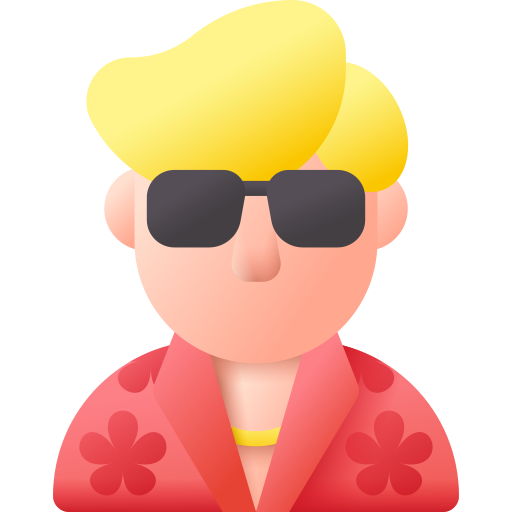
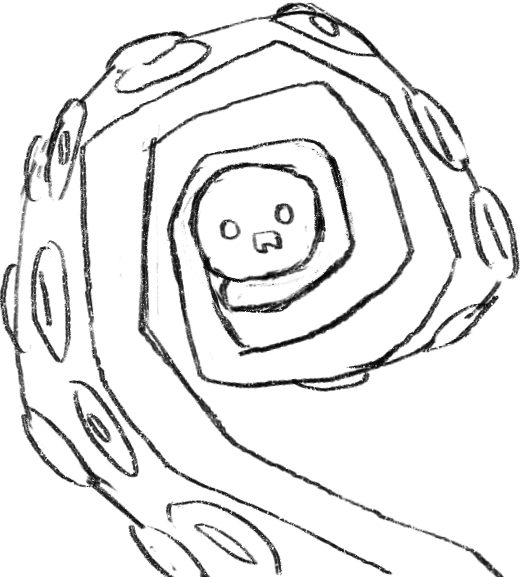
minor

diff --git a/Assets/Scripts/Services/TransportService.cs b/Assets/Scripts/Services/TransportService.cs
@@ -96,6 +96,9 @@ public class TransportService
             case ZonePhase.Delivering:
                 TickDelivering(zone, type, workers, dt);
                 break;
+            case ZonePhase.AwaitingHandPickup:
+                TickAwaitingHandPickup(zone, type, workers, dt);
+                break;
         }
     }
 
@@ -107,6 +110,7 @@ public class TransportService
         {
             case ZonePhase.Returning:
             case ZonePhase.Delivering:
+            case ZonePhase.AwaitingHandPickup:
                 if (zone.HasSharedItem)
                     zone.SharedItemPosition = layout.PlaceItemOnGround(
                         zone.SharedItemPosition,
@@ -296,6 +300,42 @@ public class TransportService
             OrderId = zone.CurrentOrderId
         };
         FoodReadyForHandPickup?.Invoke(request);
+        BeginAwaitingHandPickup(zone, type, workers);
+    }
+
+    void BeginAwaitingHandPickup(ZoneData zone, ZoneType type, List<WorkerData> workers)
+    {
+        zone.SharedItemPosition = GetFoodOutputPosition();
+        zone.StatusText.Value = "Waiting";
+        zone.WorkSpeed.Value = 0f;
+        model.SetZonePhase(zone, ZonePhase.AwaitingHandPickup);
+        UnlockWorkerPositions(workers);
+        MoveWorkersToZoneSlots(workers, type, 0f);
+    }
+
+    void TickAwaitingHandPickup(ZoneData zone, ZoneType type, List<WorkerData> workers, float dt)
+    {
+        zone.SharedItemPosition = GetFoodOutputPosition();
+        zone.StatusText.Value = "Waiting";
+
+        if (zone.DeliveryCustomer != null && zone.DeliveryCustomer.IsServed)
+        {
+            ResetAfterDelivery(zone);
+            UnlockWorkerPositions(workers);
+            MoveWorkersToZoneSlots(workers, type, dt);
+            return;
+        }
+
+        UnlockWorkerPositions(workers);
+        MoveWorkersToZoneSlots(workers, type, dt);
+    }
+
+    public void CompleteAwaitingHandPickup(int orderId)
+    {
+        var zone = model.GetZone(ZoneType.Plate);
+        if (zone.Phase != ZonePhase.AwaitingHandPickup || zone.CurrentOrderId != orderId)
+            return;
+
         ResetAfterDelivery(zone);
     }
 

diff --git a/Assets/Scripts/View/GameBootstrap.cs b/Assets/Scripts/View/GameBootstrap.cs
@@ -491,6 +491,7 @@ public class GameBootstrap : MonoBehaviour
             if (customerHand == null)
             {
                 CompleteFoodDelivery(request);
+                transportService.CompleteAwaitingHandPickup(request.OrderId);
                 closeDoor?.Invoke();
                 return;
             }
@@ -550,20 +551,39 @@ public class GameBootstrap : MonoBehaviour
 
     void RunHandFoodPickup(FoodHandPickupRequest request, Action closeDoor)
     {
-        GameObject foodGo = null;
+        ZoneItemView plateItemView = null;
+        if (layout.TryGetZonePrefab(ZoneType.Plate, out var platePrefab))
+            plateItemView = platePrefab.ItemView;
+
+        Transform foodTransform = plateItemView != null ? plateItemView.transform : null;
+        GameObject fallbackFoodGo = null;
+
         customerHand.PlayHandSequence(
             layout.GetFoodOutputPosition(),
             onBeforeExtend: () => customerHand.SetHandOpen(true),
             onAtTarget: () =>
             {
-                foodGo = CreateHandFoodVisual(request);
+                if (foodTransform == null)
+                {
+                    fallbackFoodGo = CreateHandFoodVisual(request);
+                    foodTransform = fallbackFoodGo.transform;
+                }
+                else
+                {
+                    plateItemView.SetExternallyControlled(true);
+                }
+
                 customerHand.SetHandOpen(false);
-                customerHand.AttachToGrab(foodGo.transform);
+                customerHand.AttachToGrab(foodTransform);
             },
             onComplete: () =>
             {
-                if (foodGo != null)
-                    Destroy(foodGo);
+                if (plateItemView != null)
+                    plateItemView.ResetAfterCarry();
+                else if (fallbackFoodGo != null)
+                    Destroy(fallbackFoodGo);
+
+                transportService.CompleteAwaitingHandPickup(request.OrderId);
 
                 customerHand.SetHandOpen(true);
                 CompleteFoodDelivery(request);

diff --git a/Assets/Scripts/View/World/ZoneItemView.cs b/Assets/Scripts/View/World/ZoneItemView.cs
@@ -5,15 +5,37 @@ public class ZoneItemView : MonoBehaviour
     [SerializeField] SpriteRenderer itemRenderer;
 
     Transform itemTransform;
+    Transform carryParent;
     ZoneType zoneType;
     GameModel model;
     bool isSetup;
+    bool externallyControlled;
+
+    public Transform CarryTransform => itemRenderer != null ? itemRenderer.transform : transform;
+
+    public void SetExternallyControlled(bool value)
+    {
+        externallyControlled = value;
+        if (value && itemRenderer != null)
+            itemRenderer.enabled = true;
+    }
+
+    public void ResetAfterCarry()
+    {
+        externallyControlled = false;
+        if (carryParent != null)
+            transform.SetParent(carryParent, true);
+
+        if (itemRenderer != null)
+            itemRenderer.enabled = false;
+    }
 
     public void Setup(ZoneType type, GameModel gameModel, GameConfigData config)
     {
         zoneType = type;
         model = gameModel;
         isSetup = true;
+        carryParent = transform.parent;
 
         float size = config.foodSpriteSize * 1.15f;
         EnsureRenderer(config, size);
@@ -40,7 +62,7 @@ public class ZoneItemView : MonoBehaviour
 
     void Update()
     {
-        if (!isSetup || model == null || itemRenderer == null)
+        if (!isSetup || model == null || itemRenderer == null || externallyControlled)
             return;
 
         var zone = model.GetZone(zoneType);

diff --git a/Assets/Scripts/Services/CustomerSpawnService.cs b/Assets/Scripts/Services/CustomerSpawnService.cs
@@ -242,6 +242,11 @@ public class CustomerSpawnService
 
         customer.IsServed = true;
         model.Gold.Value += customer.ReceivedSatiety;
+
+        var customerInfo = CSVLoader.GetCustomer(customer.CustomerTypeId);
+        if (customerInfo != null && customerInfo.@base > 0)
+            model.Gold.Value += customerInfo.@base;
+
         model.Customers.Remove(customer);
         model.ServedCustomerCount++;
 

diff --git a/Assets/Scripts/View/World/ZonePrefab.cs b/Assets/Scripts/View/World/ZonePrefab.cs
@@ -18,6 +18,7 @@ public class ZonePrefab : MonoBehaviour
     public ZoneType ZoneType => zoneType;
     public bool StartsUnlocked => startsUnlocked;
     public string DisplayLabel => string.IsNullOrEmpty(displayLabel) ? zoneType.ToString() : displayLabel;
+    public ZoneItemView ItemView => itemView;
 
     public Vector2 RootPosition => transform.position;
 

diff --git a/Assets/Scripts/Util/CSVLoader.cs b/Assets/Scripts/Util/CSVLoader.cs
@@ -46,6 +46,7 @@ public class CustomerInfo
     public string desc;
     public string effect;
     public int value;
+    public int @base;
 
     public string GetDisplayText()
     {
